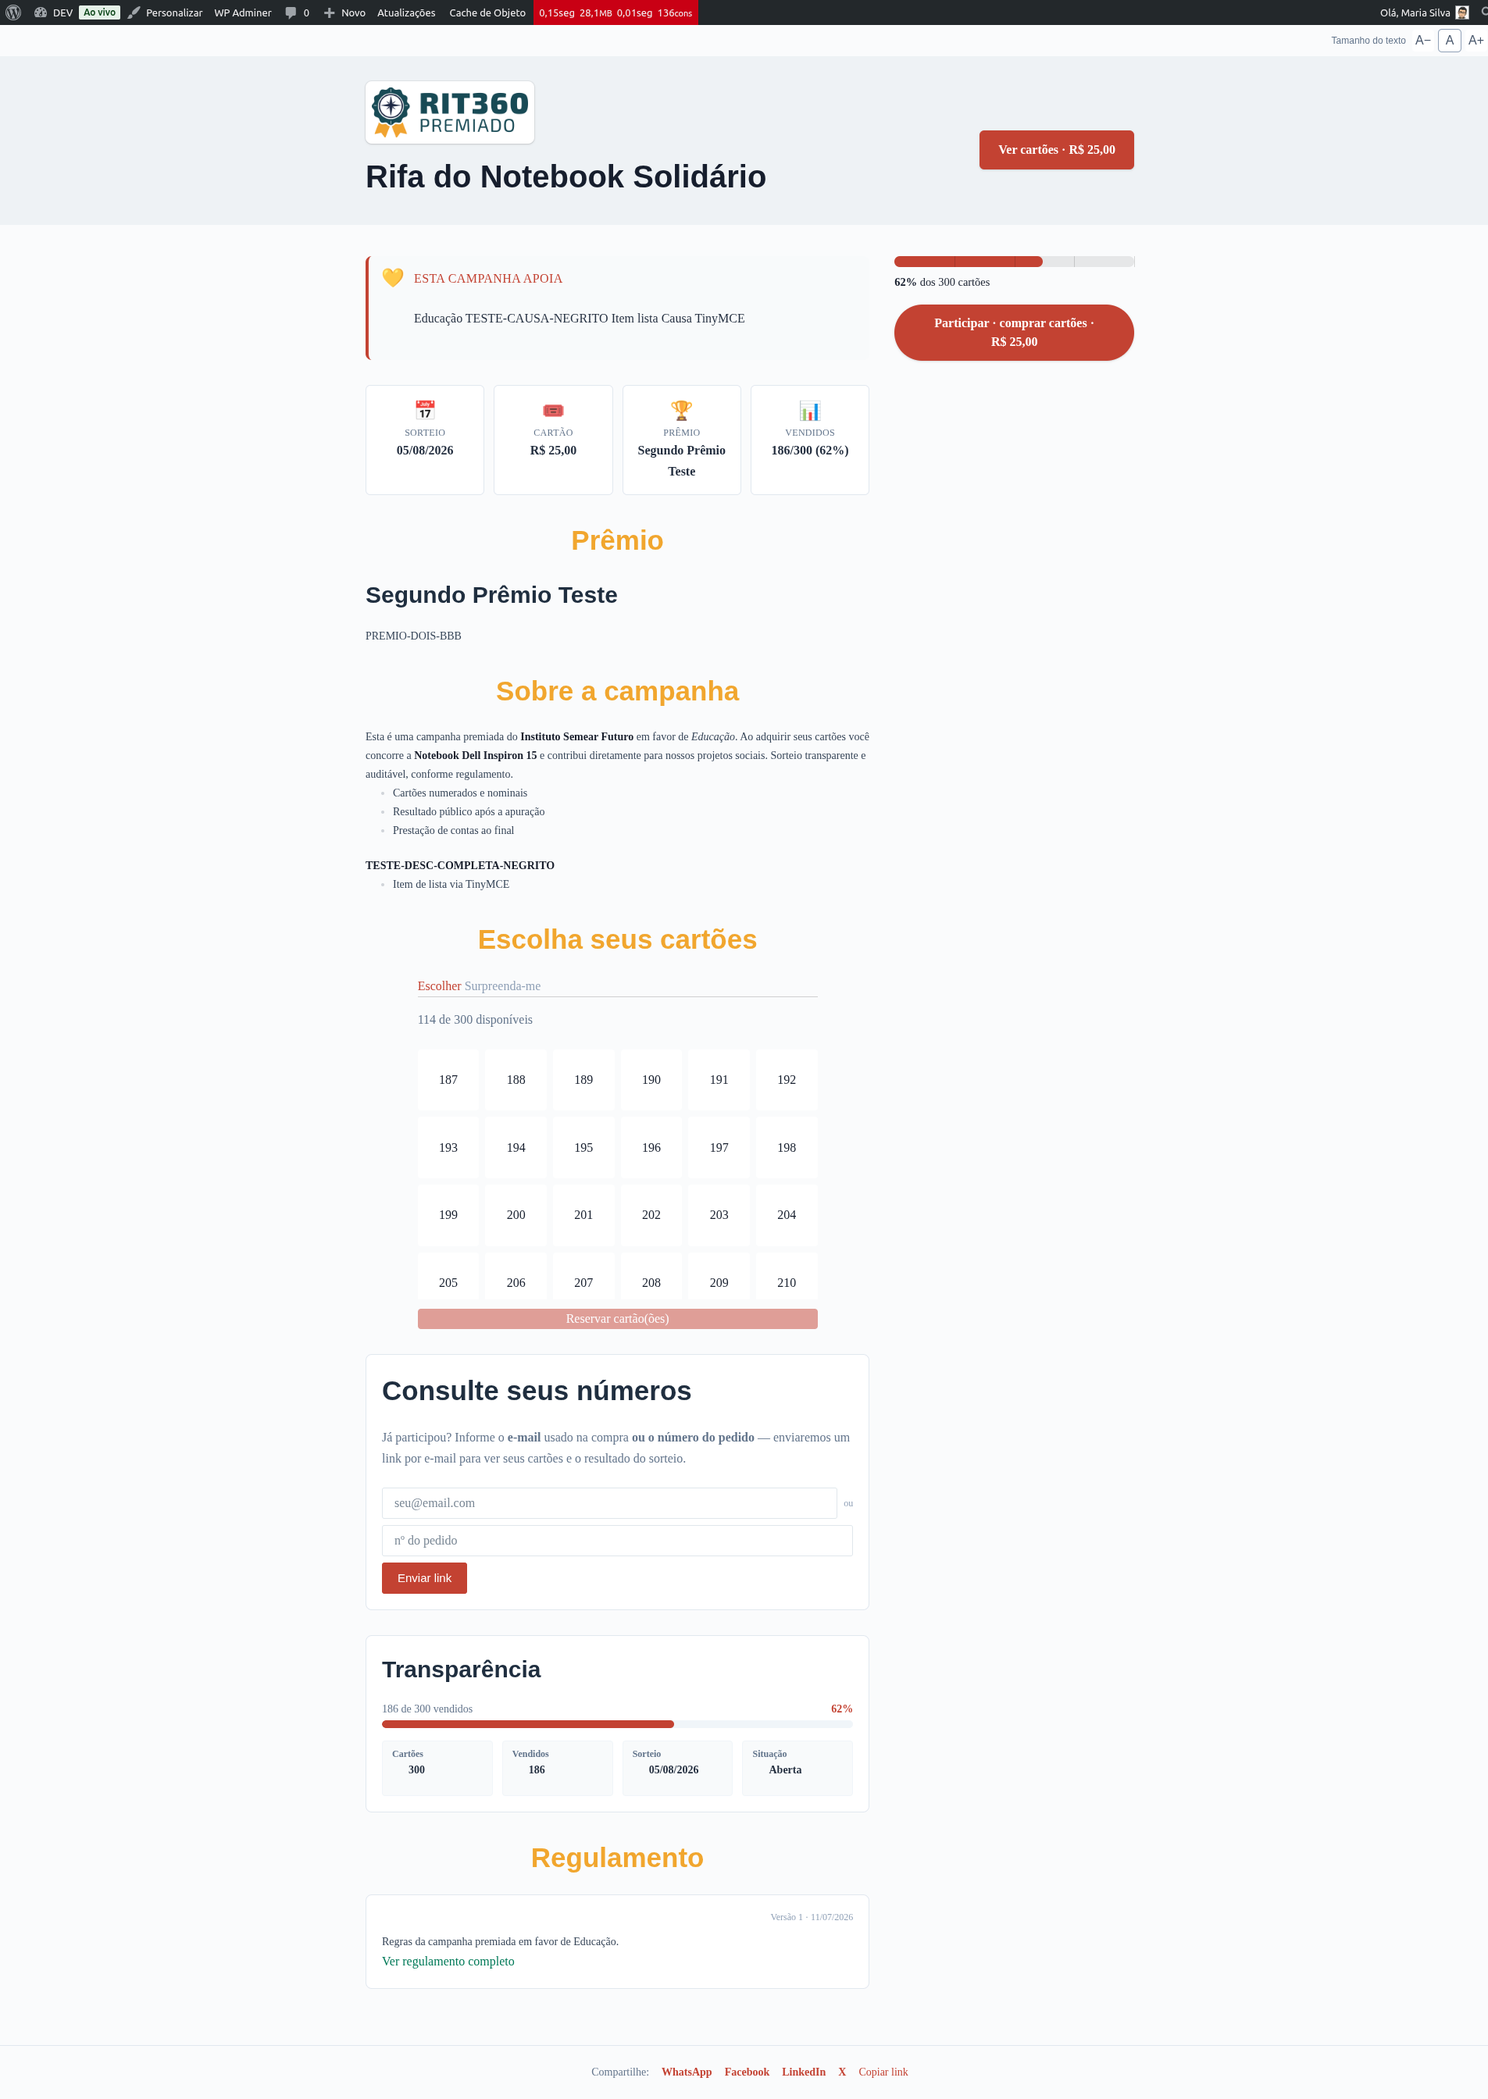
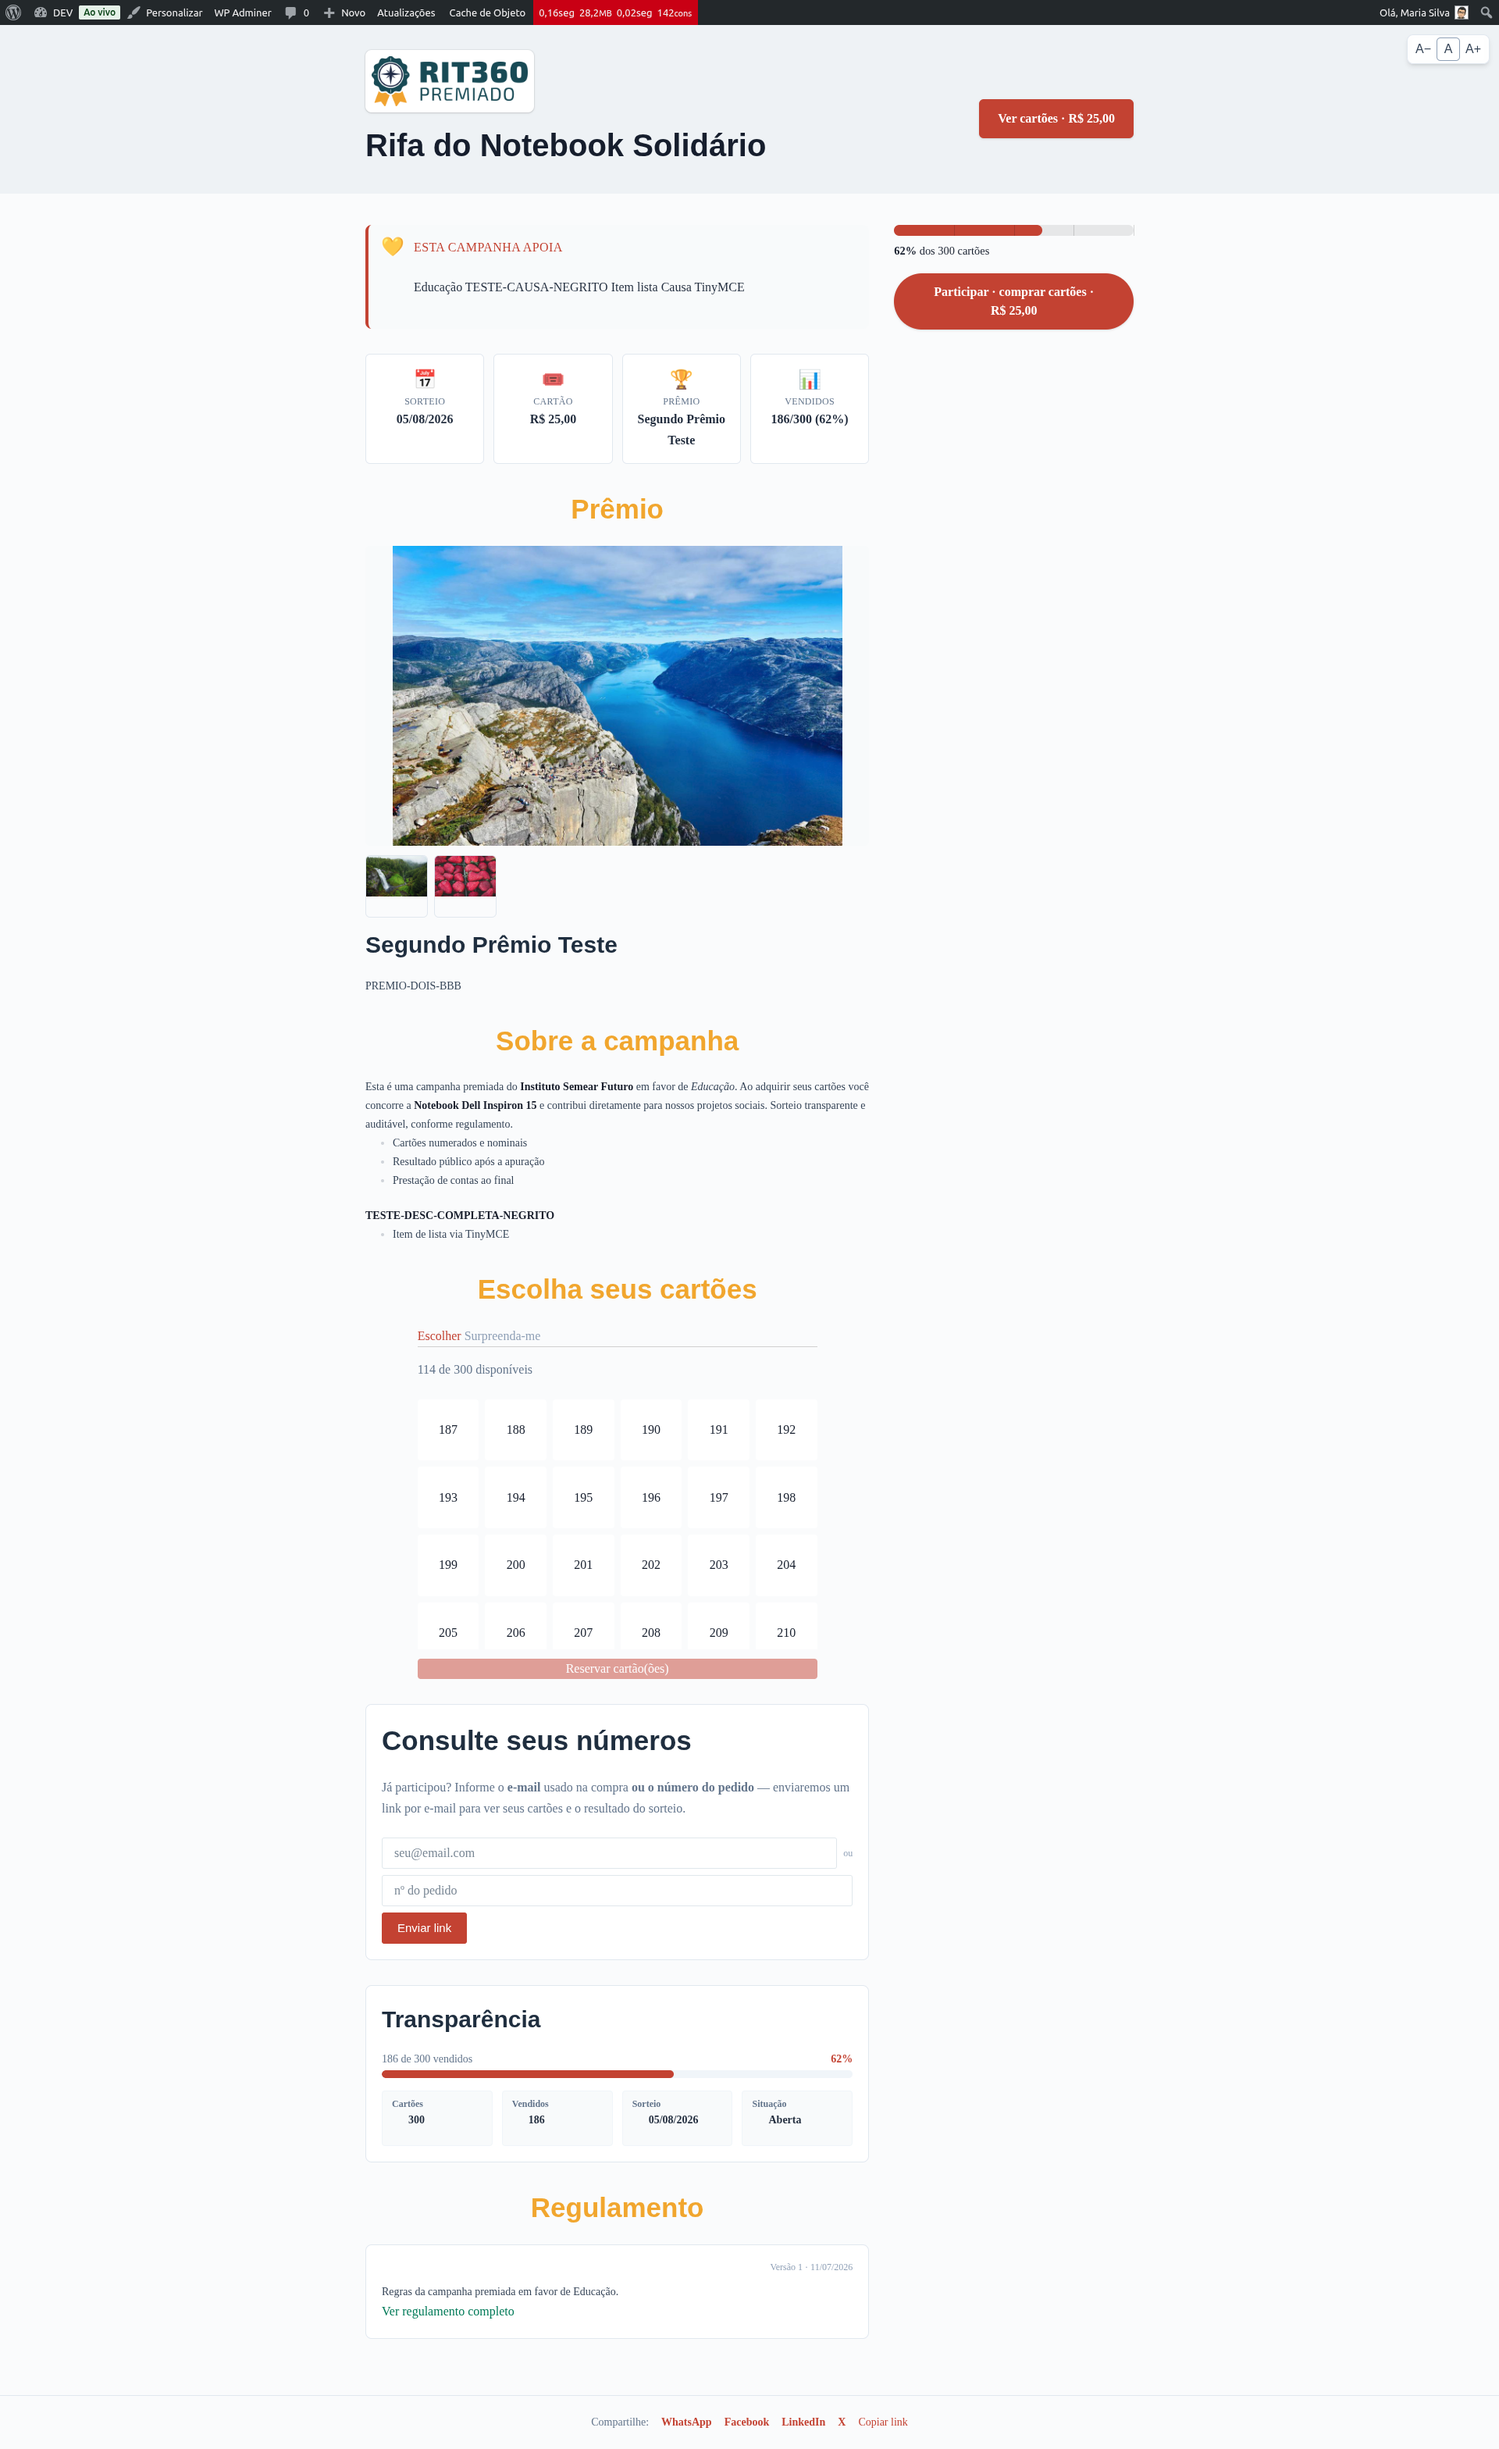
docs(manual): atualiza para v2.13.2 (controle de tamanho de texto e revisão)
- Recaptura das telas públicas em v2.13.2: o controle de tamanho de texto
  (A-/A/A+) agora é um box discreto no canto superior direito do hero (#160),
  não mais a faixa full-width acima do hero.
  - bp-11-pagina-publica-site.png, tema-03-publica-clara.png (campanha clara)
  - tema-04-publica-escura.png (campanha escura)
- publica-consulte-numeros.png: agora é recorte do card "Consulte seus numeros"
  (antes era duplicata da pagina inteira).
- Nova captura publica-tamanho-texto.png (zoom do controle no hero).
- Texto: secao de acessibilidade em personalizar-pagina-publica.md, mencao no
  modulo pagina-publica.md e entrada de Novidades (Versao 2.13).

diff --git a/guias/personalizar-pagina-publica.md b/guias/personalizar-pagina-publica.md
@@ -6,8 +6,8 @@ permalink: /guias/personalizar-pagina-publica/
 task: personalizar-pagina-publica
 role: admin
 routes: ["#/organizacao", "#/campanhas/:id", "/campanha/:slug"]
-screenshots: [tema-01-org-identidade, tema-02-campanha-padrao-personalizar, publica-hero-modos, tema-03-publica-clara, tema-04-publica-escura, bp-29-config-meta-video, bp-30-publica-termometro, bp-31-publica-video]
-source_docs: [PRD_Bussola_Premiada.md#8.7, PRD_Bussola_Premiada.md#8.8, PRD_Bussola_Premiada.md#8.9, CHANGELOG.md#2.6.0]
+screenshots: [tema-01-org-identidade, tema-02-campanha-padrao-personalizar, publica-hero-modos, tema-03-publica-clara, tema-04-publica-escura, publica-tamanho-texto, bp-29-config-meta-video, bp-30-publica-termometro, bp-31-publica-video]
+source_docs: [PRD_Bussola_Premiada.md#8.7, PRD_Bussola_Premiada.md#8.8, PRD_Bussola_Premiada.md#8.9, CHANGELOG.md#2.6.0, CHANGELOG.md#2.13.0, CHANGELOG.md#2.13.2]
 last_verified: 2026-07-23
 status: publicado
 ---
@@ -138,6 +138,17 @@ A página reúne, em uma rolagem: o prêmio com as fotos, a história da causa, 
 **Esquema escuro** (mesma campanha, mesmas cores — só muda o fundo):
 
 ![Página pública no esquema escuro](/assets/screenshots/tema-04-publica-escura.png)
+
+### Acessibilidade — tamanho do texto
+
+Toda página pública traz um **controle de tamanho do texto** para o visitante, no **canto superior direito do topo (hero)**: um pequeno box com os botões **A−**, **A** e **A+**.
+
+- **A−** diminui o texto da página; **A+** aumenta; **A** volta ao tamanho padrão.
+- A escolha vale para a leitura daquela pessoa (é confortável para quem enxerga menos) e **fica guardada no navegador dela** — ao voltar à página, o tamanho preferido é mantido.
+
+Esse controle aparece **sozinho, em todas as campanhas**, sem nenhuma configuração de sua parte.
+
+![Controle de tamanho do texto (A− / A / A+) no canto do topo da página](/assets/screenshots/publica-tamanho-texto.png)
 
 ## Compra: como o participante age
 

diff --git a/novidades.md b/novidades.md
@@ -3,7 +3,7 @@ title: "Novidades"
 nav_order: 8
 permalink: /novidades/
 source_docs: [CHANGELOG.md]
-last_verified: 2026-07-22
+last_verified: 2026-07-23
 status: publicado
 ---
 
@@ -12,6 +12,18 @@ status: publicado
 O que há de novo no RIT360 Premiado, em linguagem simples. Cada item indica a **versão** do plugin em que a novidade chegou. Você vê a versão instalada no topo do painel, ao lado da logo (ex.: *RIT360 Premiado · v1.2.1*).
 
 > Esta é uma versão amigável do histórico técnico. O registro completo para desenvolvedores fica no `CHANGELOG.md` do projeto.
+
+---
+
+## Versão 2.13 — Acessibilidade: tamanho do texto na página pública
+
+A página pública de cada campanha agora tem um **controle de tamanho do texto** para quem visita: um box discreto no **canto superior direito do topo**, com os botões **A−**, **A** e **A+**.
+
+- **A−** reduz, **A+** amplia e **A** volta ao padrão — quem enxerga menos ajusta a leitura sozinho.
+- A preferência **fica guardada no navegador do visitante**: ao voltar, o tamanho escolhido é mantido.
+- Aparece **automaticamente em todas as campanhas**, sem nenhuma configuração de sua parte.
+
+Como fica para o público em [Personalizar a página pública](/guias/personalizar-pagina-publica/#acessibilidade--tamanho-do-texto).
 
 ---
 

diff --git a/modulos/pagina-publica.md b/modulos/pagina-publica.md
@@ -5,8 +5,8 @@ parent: "Módulos"
 permalink: /modulos/pagina-publica/
 role: admin
 routes: ["#/organizacao", "#/campanhas/:id", "/campanha/:slug"]
-screenshots: [bp-10-pagina-publica-admin, bp-11-pagina-publica-site, tema-01-org-identidade]
-last_verified: 2026-07-22
+screenshots: [bp-10-pagina-publica-admin, bp-11-pagina-publica-site, tema-01-org-identidade, publica-tamanho-texto]
+last_verified: 2026-07-23
 status: publicado
 ---
 
@@ -25,6 +25,7 @@ Cada campanha tem um **hotsite próprio**, mobile-first, no endereço `/campanha
 - O **regulamento**.
 - A **barra de compartilhamento** (WhatsApp, Facebook, X, LinkedIn, copiar link).
 - O **resultado** do sorteio, quando a campanha é apurada — com um ganhador por prêmio, sempre mascarado por padrão.
+- Um **controle de acessibilidade de tamanho do texto** (**A− / A / A+**) no canto superior direito do topo, que o visitante usa para ampliar ou reduzir a leitura. Aparece sozinho em toda campanha. Detalhes em [Personalizar a página pública](/guias/personalizar-pagina-publica/#acessibilidade--tamanho-do-texto).
 
 ## Configuração (guiada por temas)
 
